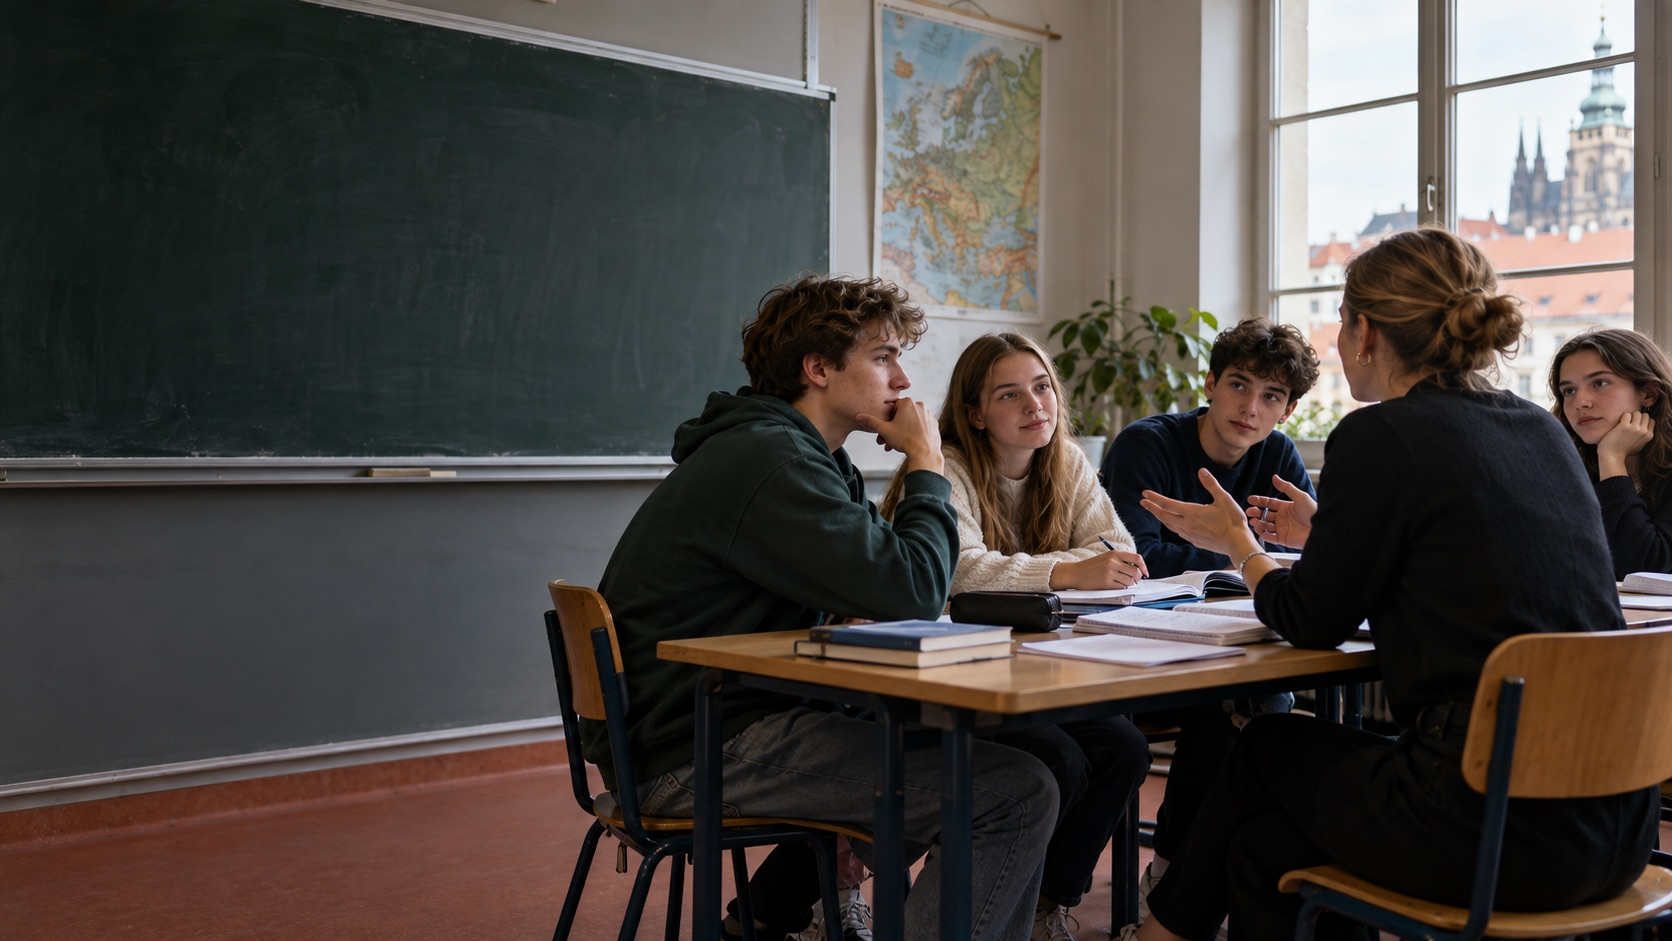
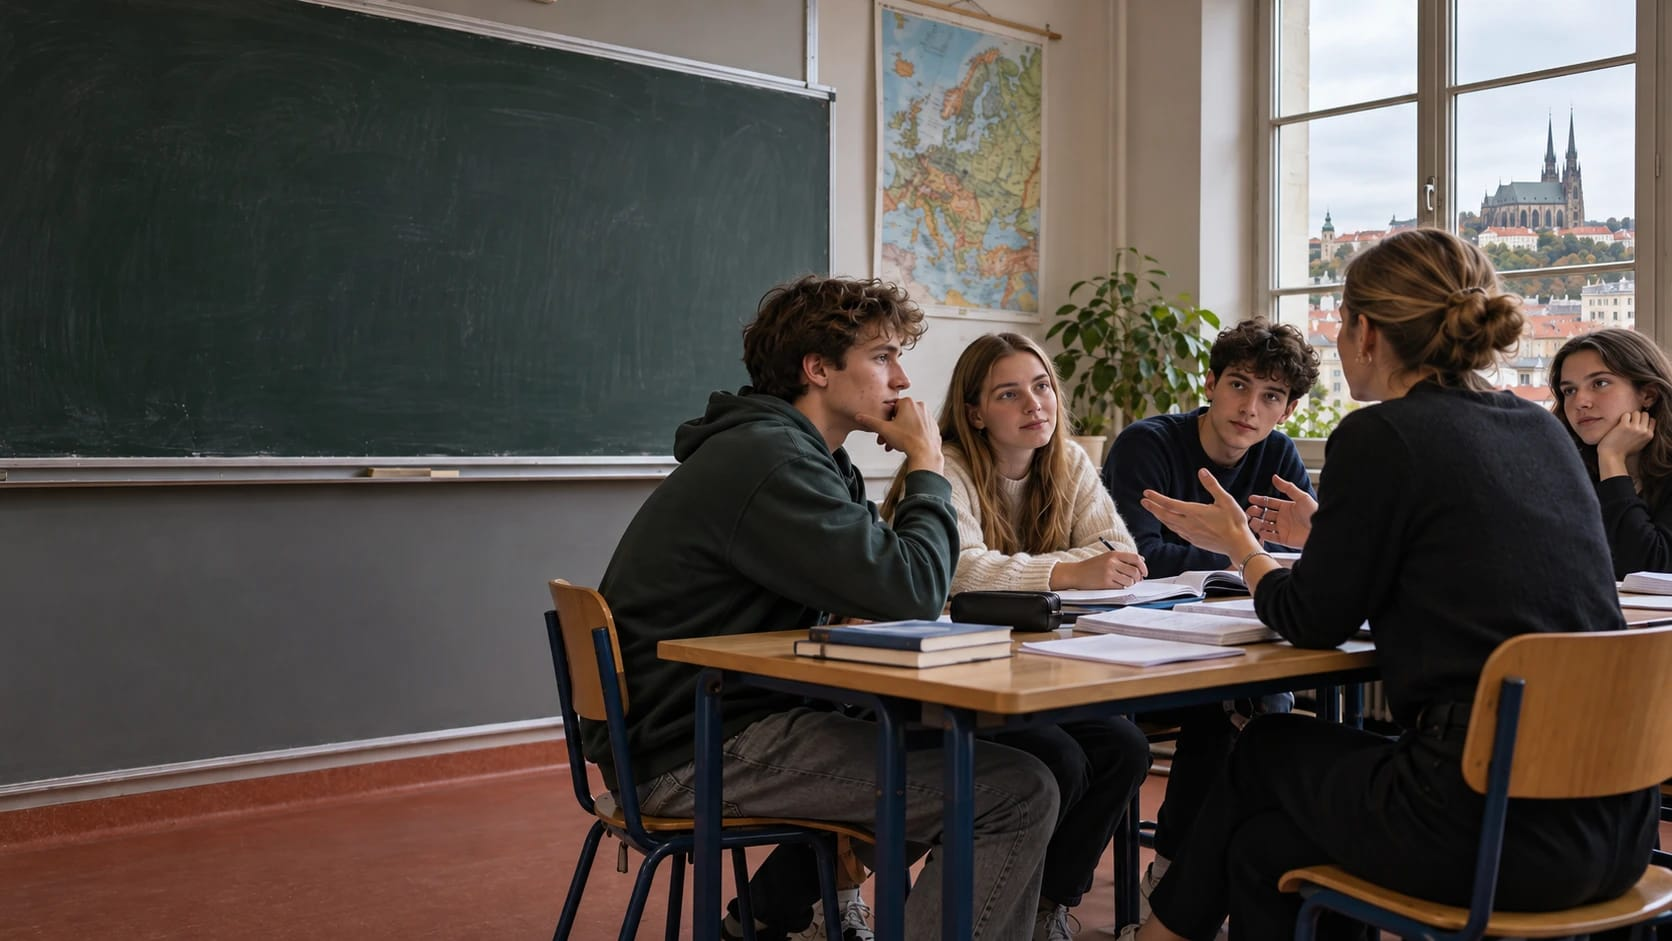
Navigace, loga fakulty a projektu, nová úvodní fotka
- horní panel i patička: jen Jak nástroj použít a O nástroji
- Jak nástroj použít spojuje metodiku, úrovně a ukázky z praxe;
  staré adresy /urovne/ a /ukazky/ přesměrovávají na sekce
- O nástroji: bez bočního sloupce, oborových rámců a redakční poznámky
- logo MUNI ARTS v horním panelu (s názvem fakulty) a v patičce
- logolink EU + MŠMT a text o projektu MUNI 4 PREGRAD v patičce
- nová úvodní fotka ve WebP (800/1280/1672 px) s JPG zálohou
- odstraněny zmínky o pracovní verzi
- jedna čára pod záhlavím na stránce Rámec, menší mezera na Jak nástroj použít

diff --git a/src/styles/global.css b/src/styles/global.css
@@ -95,6 +95,11 @@ p { margin: 0 0 1rem; }
 .draft-strip a i { margin: 0 0 0 4px; font-size: .68rem; }
 .site-header { position: sticky; top: 0; z-index: 50; background: rgba(255,255,255,.97); border-bottom: 1px solid var(--muni-blue); backdrop-filter: blur(12px); }
 .site-header__inner { display: flex; align-items: center; gap: 22px; min-height: 76px; }
+.header-faculty { display: inline-flex; flex-shrink: 0; color: var(--muni-blue); }
+.header-faculty svg { display: block; width: auto; height: 44px; }
+.header-faculty:hover { color: var(--muni-blue-dark); }
+.header-faculty__compact { display: none !important; }
+.header-divider { flex: 0 0 1px; align-self: center; height: 40px; background: var(--line); }
 .brand { display: inline-flex; flex-shrink: 0; align-items: center; gap: 14px; text-decoration: none; color: var(--muni-blue); }
 .brand:hover { color: var(--muni-blue); }
 .brand__mark { display: grid; place-items: center; width: 42px; height: 42px; background: var(--muni-blue); color: #fff; font-family: var(--font-mono); font-size: 1.55rem; font-weight: 700; line-height: 1; }
@@ -111,14 +116,20 @@ p { margin: 0 0 1rem; }
 .mobile-nav nav { position: absolute; right: 0; top: 50px; display: grid; min-width: 240px; padding: 8px; background: #fff; border: 1px solid var(--line); box-shadow: 0 15px 25px rgba(0,0,0,.12); }
 .mobile-nav nav a { padding: 10px 12px; color: var(--ink); text-decoration: none; }
 .mobile-nav nav a[aria-current], .mobile-nav nav a:hover { background: var(--soft); color: var(--muni-blue); }
-.site-footer { background: var(--muni-blue); color: #fff; padding: 46px 0 34px; margin-top: 72px; }
-.site-footer__inner { display: grid; grid-template-columns: 1.4fr 1fr auto; gap: 36px; }
+.funding { margin-top: 40px; background: #fff; color: var(--ink); }
+.funding__inner { display: flex; align-items: center; gap: 32px; padding-block: 24px; }
+.funding__logo { flex: 0 0 auto; width: 320px; height: auto; }
+.site-footer .funding p { margin: 0; max-width: 620px; color: var(--ink-2); font-size: .88rem; line-height: 1.45; }
+.site-footer { background: var(--muni-blue); color: #fff; padding: 46px 0 0; margin-top: 72px; }
+.site-footer__inner { display: grid; grid-template-columns: auto 1.4fr 1fr; gap: 48px; align-items: start; }
 .site-footer strong { font-family: var(--font-mono); font-size: 1.25rem; font-weight: 700; letter-spacing: 0; }
 .site-footer p { margin: 8px 0 0; color: #fff; max-width: 430px; font-size: .9rem; }
 .site-footer__links { display: grid; justify-items: start; gap: 7px; font-size: .9rem; }
 .site-footer a { color: #fff; }
 .site-footer a:hover { color: var(--arts-blue); }
-.site-footer__note { max-width: 210px !important; }
+.site-footer__faculty { display: inline-flex; align-self: start; justify-self: start; color: #fff; }
+.site-footer__faculty svg { display: block; width: auto; height: 60px; }
+.site-footer a.site-footer__faculty:hover { color: #fff; opacity: .85; }
 .breadcrumbs { padding: 18px 0 0; font-size: .88rem; line-height: 1.3; }
 .breadcrumbs ol { list-style: none; display: flex; flex-wrap: wrap; align-items: center; gap: 4px 2px; margin: 0 0 0 -8px; padding: 0; }
 .breadcrumbs li { display: inline-flex; align-items: center; gap: 2px; min-width: 0; max-width: 100%; }
@@ -170,6 +181,8 @@ p { margin: 0 0 1rem; }
 .framework-explorer { max-width: 1160px; padding: 20px 0 30px; }
 .framework-area { border-bottom: 1px solid var(--line); }
 .framework-area:first-child { border-top: 1px solid var(--muni-blue); }
+.page-heading + .framework-explorer { padding-top: 0; }
+.page-heading + .framework-explorer .framework-area:first-child { border-top: 0; }
 .framework-area summary { display: grid; grid-template-columns: 64px minmax(0,1fr) auto 18px; gap: 18px; align-items: center; min-height: 86px; padding: 14px 8px; list-style: none; cursor: pointer; }
 .framework-area summary::-webkit-details-marker { display: none; }
 .framework-area summary:hover, .framework-area[open] summary { background: var(--soft); }
@@ -253,7 +266,8 @@ p { margin: 0 0 1rem; }
 .level-example__text > span { font-weight: 700; line-height: 1.3; }
 .level-example:hover .level-example__text > span { text-decoration: underline; }
 .level-example__arrow { color: var(--muni-blue); font-size: .8rem; }
-#mindset, #postup, #podle-role, #vychodiska { scroll-margin-top: 100px; }
+#mindset, #postup, #urovne, #podle-role, #ukazky, #vychodiska { scroll-margin-top: 100px; }
+.methodology-sample { padding-block: 24px 40px; }
 .level-panel:target { background: var(--soft); outline: 1px solid var(--line); outline-offset: 8px; }
 .level-panel h3 { align-self: start; margin: 0; }
 .level-panel__number { display: grid; place-items: center; width: 54px; height: 54px; border-radius: 50%; background: var(--muni-blue); color: #fff; font-size: 1.8rem; font-weight: 700; line-height: 1; font-variant-numeric: tabular-nums; }
@@ -325,6 +339,8 @@ p { margin: 0 0 1rem; }
 .role-grid h3 { margin-bottom: 9px; }
 .role-grid p { font-size: .92rem; line-height: 1.46; }
 .methodology-page { padding-top: 36px; }
+.content-layout .methodology-page { padding-top: 0; }
+.prose > h2:first-child { margin-top: 0; }
 .methodology-details { border-top: 1px solid var(--line); border-bottom: 1px solid var(--line); margin-top: 32px; }
 .methodology-details summary { display: flex; justify-content: space-between; align-items: center; gap: 16px; padding: 18px 0; color: var(--muni-blue); font-weight: 700; cursor: pointer; list-style: none; }
 .methodology-details summary::-webkit-details-marker { display: none; }
@@ -343,12 +359,16 @@ p { margin: 0 0 1rem; }
   .home-hero h1 { max-width: 560px; font-size: 2.55rem; }
   .home-hero::after { background: rgba(0, 0, 0, .5); }
   .site-footer__inner { grid-template-columns: 1fr 1fr; }
-  .site-footer__note { grid-column: 1 / -1; }
+  .site-footer__faculty { grid-column: 1 / -1; }
   .role-grid { grid-template-columns: 1fr; }
 }
 @media (max-width: 620px) {
   :root { font-size: 16px; }
   .site-header__inner { min-height: 64px; gap: 8px; }
+  .header-faculty svg { height: 36px; }
+  .header-faculty__full { display: none !important; }
+  .header-faculty__compact { display: block !important; }
+  .header-divider { height: 32px; }
   .brand__mark { width: 36px; height: 36px; }
   .brand__text small { display: none; }
   .draft-strip__inner { min-height: 32px; }
@@ -393,6 +413,8 @@ p { margin: 0 0 1rem; }
   .mindset { grid-template-columns: 1fr; gap: 10px; padding: 20px; }
   .reflection ol { grid-template-columns: 1fr; gap: 8px; }
   .criterion-pager { margin-top: 32px; }
+  .funding__inner { flex-direction: column; align-items: flex-start; gap: 14px; }
+  .funding__logo { width: 100%; max-width: 320px; }
   .breadcrumbs li { display: none; }
   .breadcrumbs li.breadcrumbs__parent { display: inline-flex; }
   .breadcrumbs__parent .breadcrumbs__sep { display: none; }
@@ -405,16 +427,21 @@ p { margin: 0 0 1rem; }
   .criterion-pager { margin-top: 48px; }
   .criterion-pager__title { display: none; }
   .site-footer__inner { grid-template-columns: 1fr; gap: 22px; }
-  .site-footer__note { grid-column: auto; }
+  .site-footer__faculty { grid-column: auto; }
 }
 @media (prefers-reduced-motion: reduce) { html { scroll-behavior: auto; } }
 .print-only { display: none; }
 @media print {
   @page { margin: 16mm 14mm; }
   :root { font-size: 10.5pt; }
-  .draft-strip, .site-header, .site-footer, .breadcrumbs, .criterion-actions, .criterion-pager, .skip-link,
+  .draft-strip, .site-header, .site-footer__inner, .breadcrumbs, .criterion-actions, .criterion-pager, .skip-link,
   .level-panel__examples, .level-grid__head-examples { display: none !important; }
   .print-only { display: block; }
+  .site-footer { background: #fff; color: #000; padding: 0; margin: 0; }
+  .funding { margin-top: 18px; }
+  .funding__inner { padding-block: 8px; gap: 16px; }
+  .funding__logo { width: 220px; }
+  .funding p { font-size: 8pt; }
   .print-source { margin-top: 18px; padding-top: 8px; border-top: 1px solid #888; font-size: 8.5pt; color: #333; }
   .shell { width: 100%; }
   .page-section, .criterion-main { padding: 0; max-width: none; }

diff --git a/src/pages/sitemap.xml.ts b/src/pages/sitemap.xml.ts
@@ -3,7 +3,7 @@ import { areaUrl, competenceUrl, criterionUrl, getFramework, withBase } from '..
 
 export const GET: APIRoute = async () => {
   const { areas, competences, criteria } = await getFramework();
-  const paths = ['', 'ramec/', 'urovne/', 'ukazky/', 'jak-pracovat/', 'o-projektu/', 'hledat/'].map(withBase);
+  const paths = ['', 'ramec/', 'jak-pracovat/', 'o-projektu/', 'hledat/'].map(withBase);
   paths.push(...areas.map((item) => areaUrl(item.id)));
   paths.push(...competences.map((item) => competenceUrl(item.id)));
   paths.push(...criteria.map((item) => criterionUrl(item.id)));

diff --git a/scripts/extract_framework.py b/scripts/extract_framework.py
@@ -213,7 +213,7 @@ def main():
     clipped["levels"][3] = clipped["levels"][3].removesuffix("gradaci ílů") + "gradaci cílů."
     pages = {int(page.get("number")): page for page in root.findall("page")}
     output = {
-        "version": "Pracovní verze, 1. 10. 2026",
+        "version": "1. 10. 2026",
         "areas": [
             {
                 "id": str(i),
